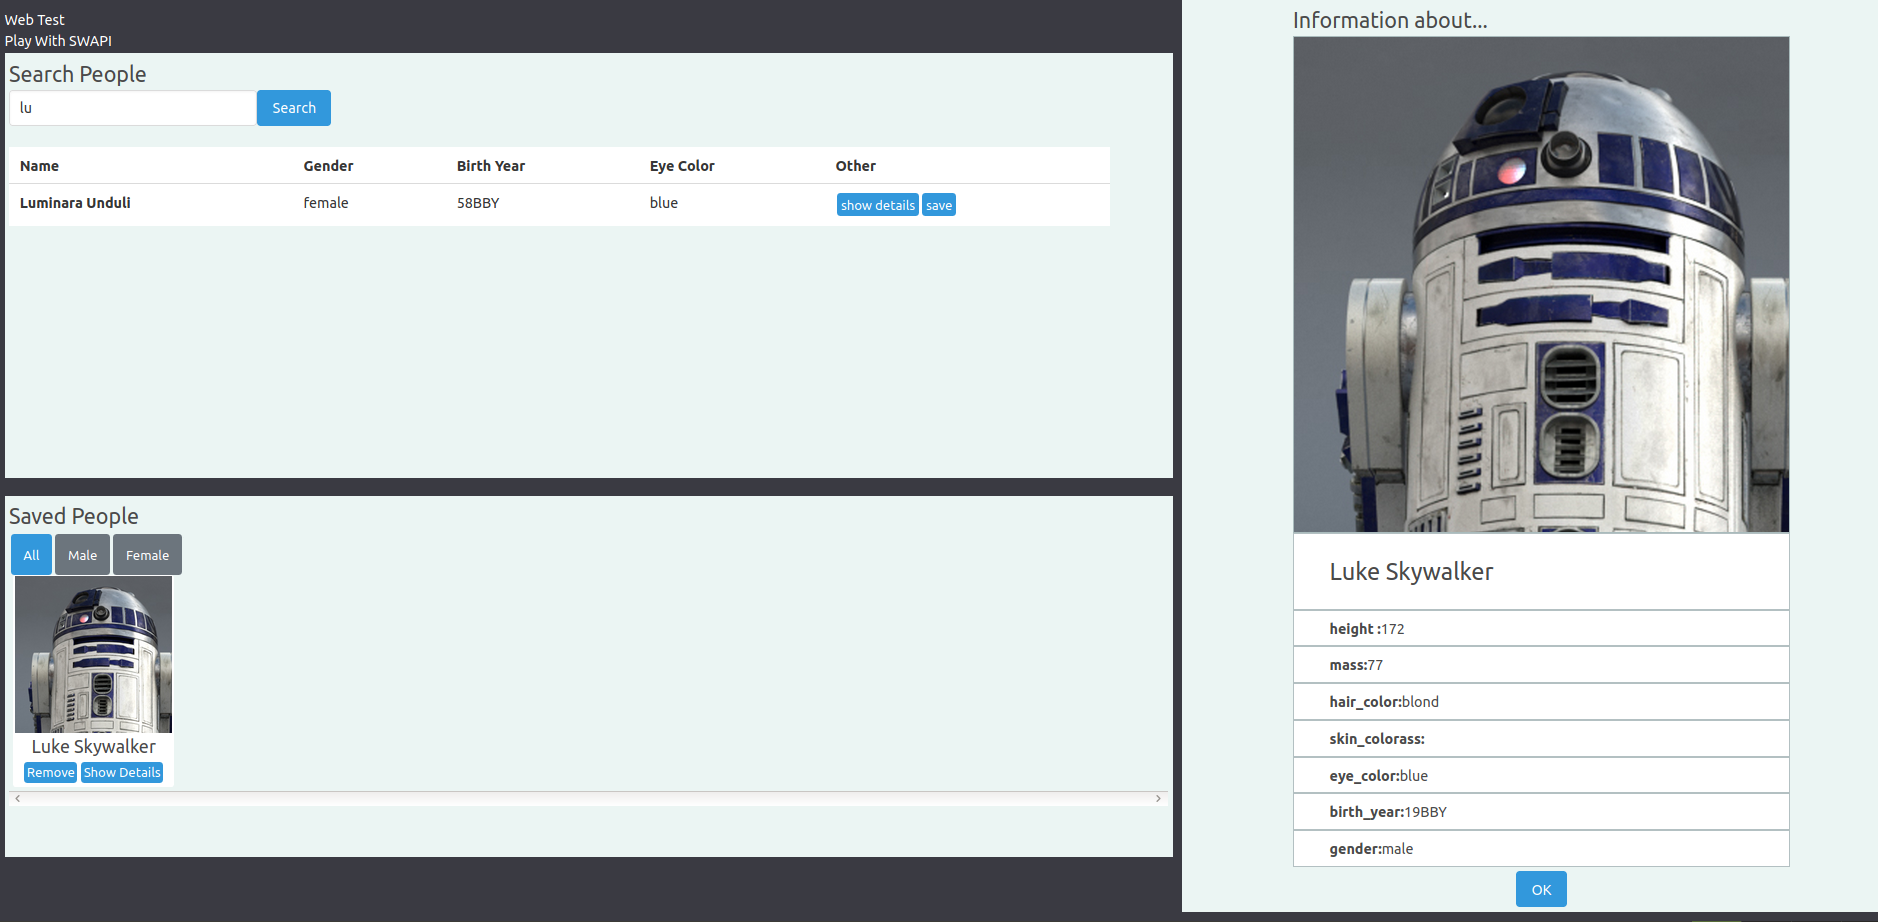
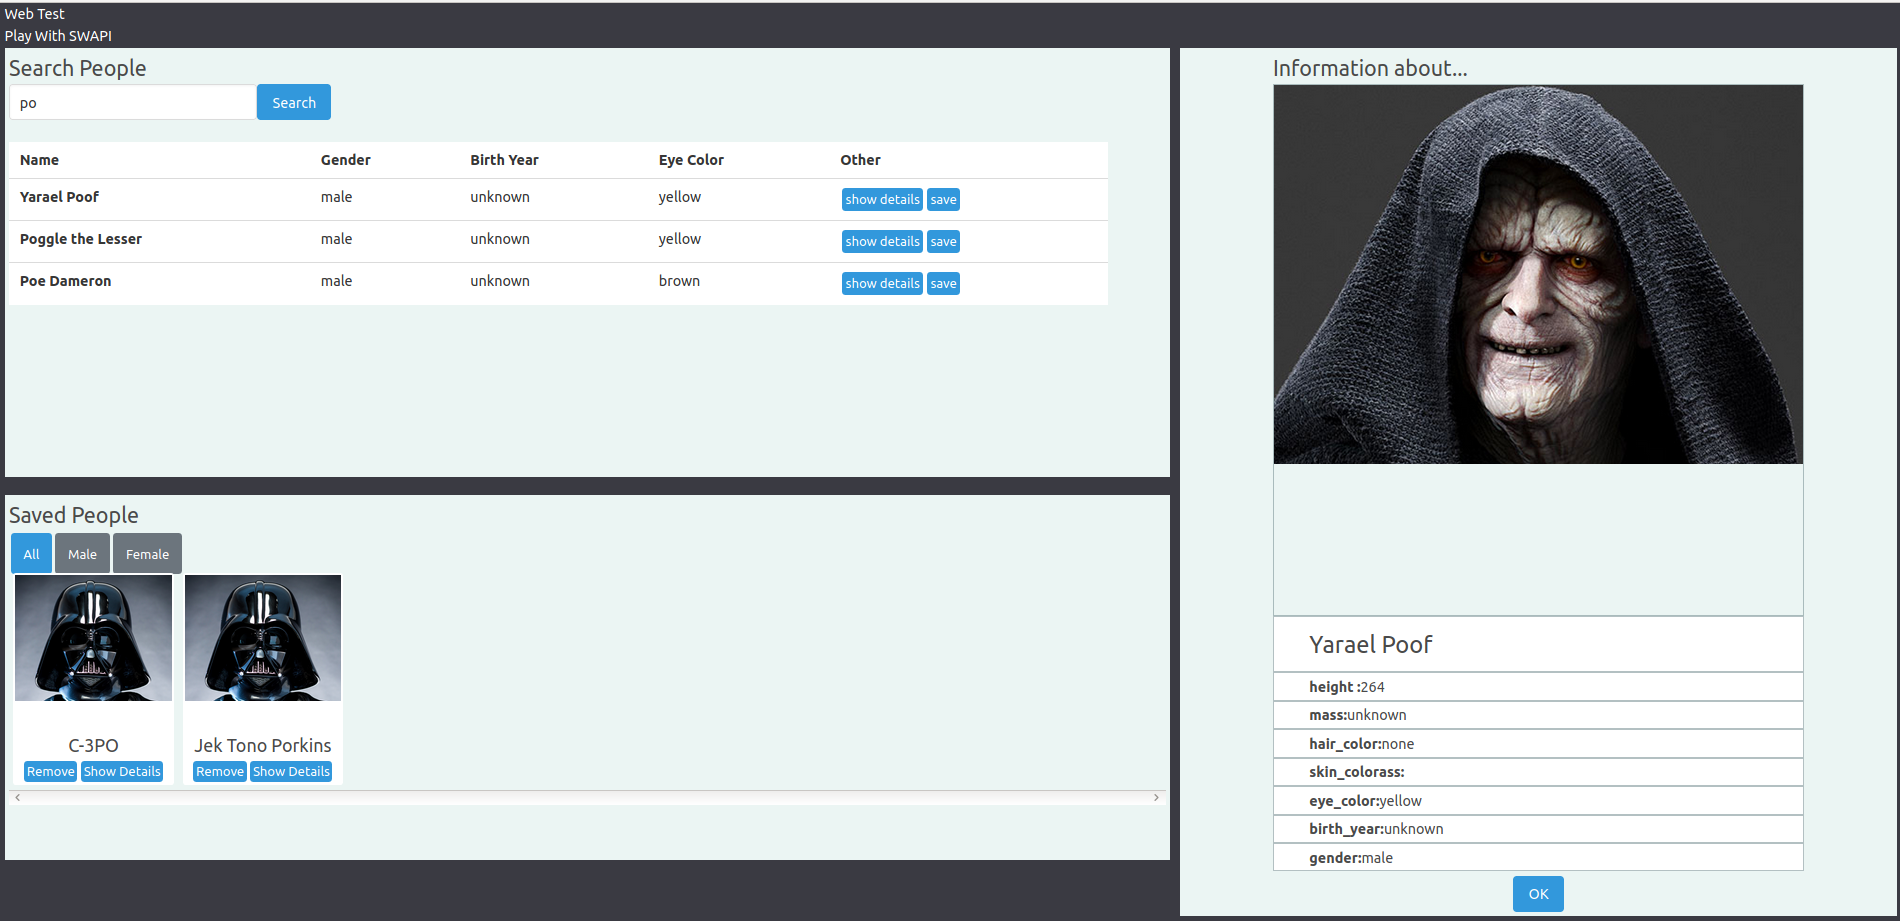
correct styling and update image

diff --git a/src/components/Home/index.sass b/src/components/Home/index.sass
@@ -12,8 +12,8 @@
     margin-top: 2px
 
 .firstColumn
-    width: 63%
-    padding: 0.5%
+    width: 63% 
+    padding: 0 0.5% 0.5% 0.5%
     height: 100%
     .savedPeople
         font-size: $fontSizeTitles
@@ -30,10 +30,12 @@
     font-size: 1em
 
 .secondColumn
+    margin-top: $headerHeight
+    margin-right: 4px
     &__empty
         margin-top: $headerHeight
         width: 35%
-        padding: 0.5%
+        padding: 0 0.5% 0.5% 0.5%
         height: 25%
         
     

diff --git a/src/components/SearchComponent/index.js b/src/components/SearchComponent/index.js
@@ -19,7 +19,11 @@ export default function SearchComponent({setDataToDisplay, resetValues}){
                 }, () => {
                     setLoading(false)
                     setError(true) 
-                }) ;
+                })
+                .catch(()=>{
+                    setLoading(false)
+                    setError(true)
+                })
             resetValues()
         }
     }

diff --git a/src/logic/index.js b/src/logic/index.js
@@ -14,7 +14,7 @@ const logic = {
         .then(response => {
             return response;
         })
-        .catch("error retrieving data")
+        .catch(reject('timeout'))
 
 
         //For test purposes

diff --git a/src/components/CardDetails/index.sass b/src/components/CardDetails/index.sass
@@ -22,7 +22,7 @@
         
     &__feature
         width: $width1
-        height: 10%
+        height: 7%
         display: flex
         flex-direction: row
         justify-content: start

diff --git a/src/App.sass b/src/App.sass
@@ -1,4 +1,4 @@
-$width1: 70%
+$width1: 75%
 $fontSizeTitles: 1.5rem
 $headerHeight: 50px
   
